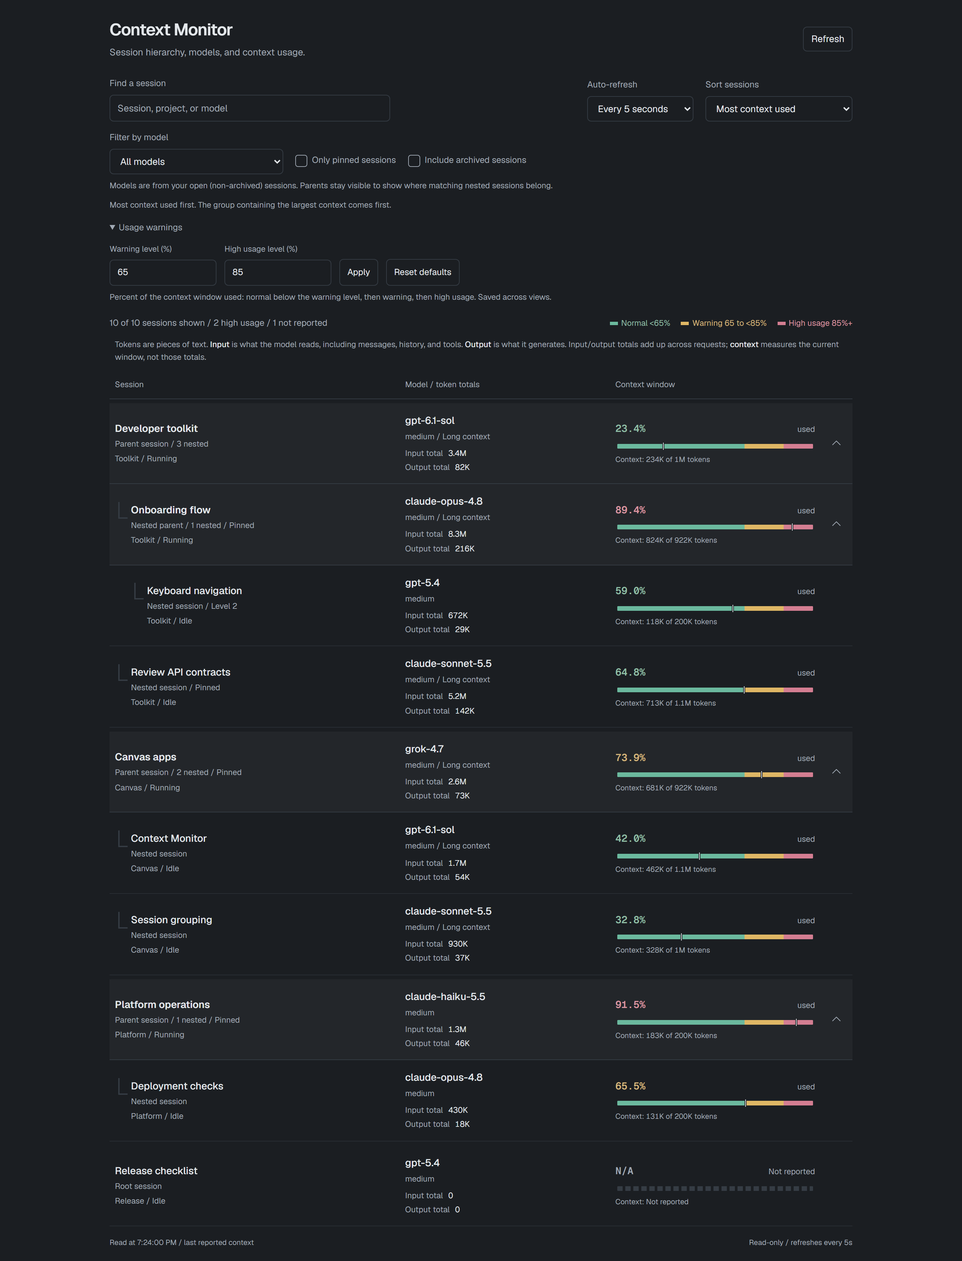
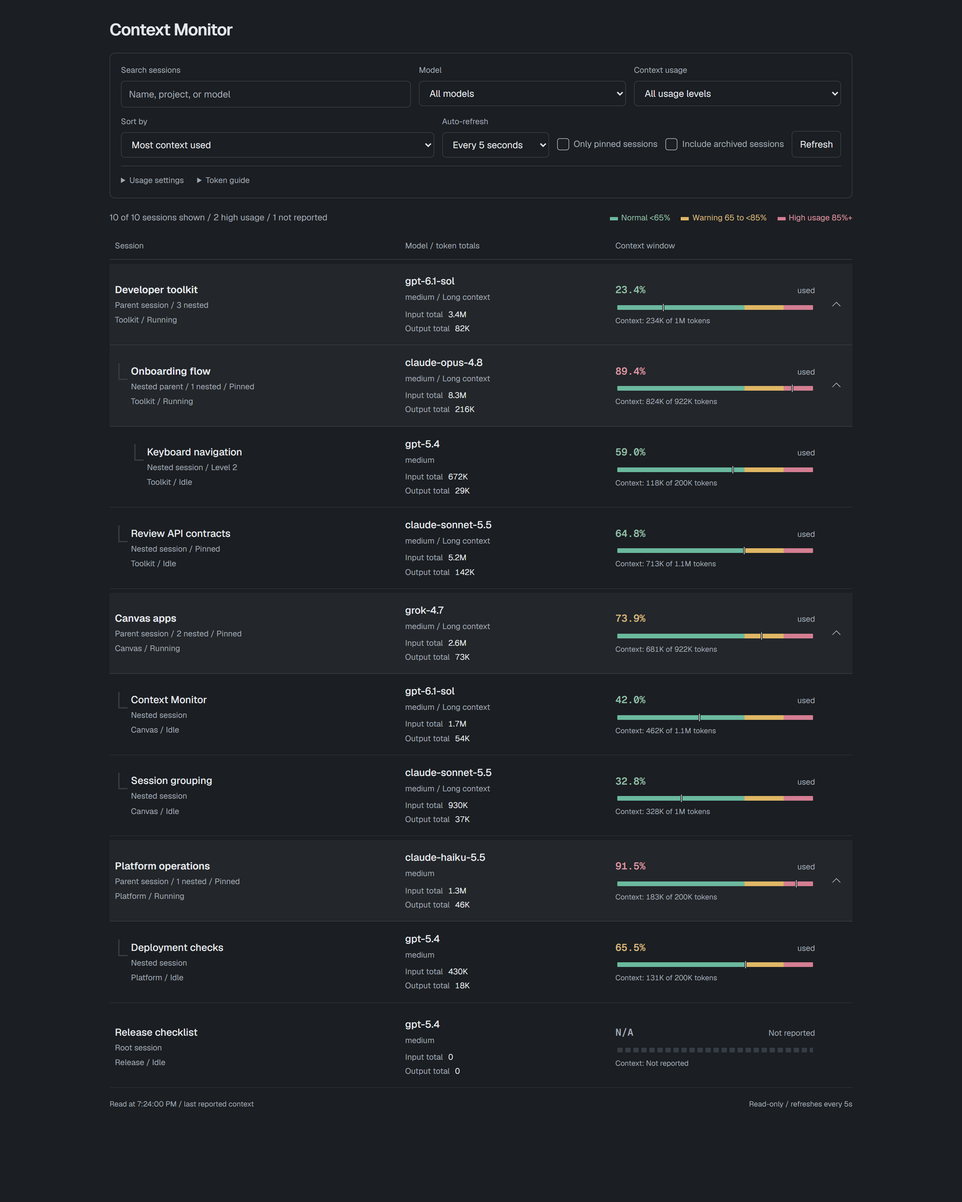
Add usage-level filtering and unify Context Monitor controls
Filter by normal, warning, high usage, or missing context using saved thresholds. Consolidate controls, keep guidance collapsible, and update dark synthetic previews and documentation.

Copilot-Session: 00babc8b-3aa2-4873-a4ea-72e82f7c85ed

diff --git a/apps/context-monitor/index.html b/apps/context-monitor/index.html
@@ -12,61 +12,79 @@
 </head>
 <body>
     <main>
-        <header>
-            <div><h1>Context Monitor</h1><p class="subtitle">Session hierarchy, models, and context usage.</p></div>
-            <button id="refresh" type="button">Refresh</button>
-        </header>
-        <div class="toolbar">
-            <div class="search"><label for="search">Find a session</label><input id="search" type="search" placeholder="Session, project, or model" autocomplete="off"></div>
-            <div class="refresh-choice">
-                <label for="auto-refresh">Auto-refresh</label>
-                <select id="auto-refresh">
-                    <option value="0">Off</option>
-                    <option value="5000" selected>Every 5 seconds</option>
-                    <option value="10000">Every 10 seconds</option>
-                    <option value="30000">Every 30 seconds</option>
-                    <option value="60000">Every minute</option>
-                    <option value="300000">Every 5 minutes</option>
-                </select>
+        <header><h1>Context Monitor</h1></header>
+        <section class="control-panel" aria-label="Session controls">
+            <div class="control-filters">
+                <div class="search"><label for="search">Search sessions</label><input id="search" type="search" placeholder="Name, project, or model" autocomplete="off"></div>
+                <div class="model-choice">
+                    <label for="model-filter">Model</label>
+                    <select id="model-filter" aria-describedby="filter-help" disabled><option value="">All models</option></select>
+                </div>
+                <div class="usage-choice">
+                    <label for="usage-filter">Context usage</label>
+                    <select id="usage-filter" aria-describedby="filter-help">
+                        <option value="">All usage levels</option>
+                        <option value="healthy">Normal (green)</option>
+                        <option value="watch">Warning (yellow)</option>
+                        <option value="high">High usage (red)</option>
+                        <option value="unknown">Not reported</option>
+                    </select>
+                </div>
             </div>
-            <div class="sort-choice">
-                <label for="sort-by">Sort sessions</label>
-                <select id="sort-by" aria-describedby="sort-help">
-                    <option value="recent" selected>Recent activity (default)</option>
-                    <option value="context-high">Most context used</option>
-                    <option value="context-low">Least context used</option>
-                    <option value="percent-high">Highest % used</option>
-                    <option value="percent-low">Lowest % used</option>
-                    <option value="capacity">Largest context window</option>
-                    <option value="name-az">Name: A to Z</option>
-                    <option value="name-za">Name: Z to A</option>
-                </select>
+            <div class="control-options">
+                <div class="sort-choice">
+                    <label for="sort-by">Sort by</label>
+                    <select id="sort-by" aria-describedby="sort-help">
+                        <option value="recent" selected>Recent activity (default)</option>
+                        <option value="context-high">Most context used</option>
+                        <option value="context-low">Least context used</option>
+                        <option value="percent-high">Highest % used</option>
+                        <option value="percent-low">Lowest % used</option>
+                        <option value="capacity">Largest context window</option>
+                        <option value="name-az">Name: A to Z</option>
+                        <option value="name-za">Name: Z to A</option>
+                    </select>
+                </div>
+                <div class="refresh-choice">
+                    <label for="auto-refresh">Auto-refresh</label>
+                    <select id="auto-refresh">
+                        <option value="0">Off</option>
+                        <option value="5000" selected>Every 5 seconds</option>
+                        <option value="10000">Every 10 seconds</option>
+                        <option value="30000">Every 30 seconds</option>
+                        <option value="60000">Every minute</option>
+                        <option value="300000">Every 5 minutes</option>
+                    </select>
+                </div>
+                <div class="scope-filters">
+                    <label class="check-filter"><input id="pinned-only" type="checkbox" disabled> Only pinned sessions</label>
+                    <label class="check-filter"><input id="archived" type="checkbox"> Include archived sessions</label>
+                </div>
+                <button id="refresh" type="button">Refresh</button>
             </div>
-        </div>
-        <div class="filters">
-            <div class="model-choice">
-                <label for="model-filter">Filter by model</label>
-                <select id="model-filter" aria-describedby="filter-help" disabled><option value="">All models</option></select>
+            <div class="control-settings">
+                <details class="threshold-settings">
+                    <summary>Usage settings</summary>
+                    <form id="threshold-form" novalidate>
+                        <fieldset id="threshold-controls" disabled>
+                            <div class="threshold-field"><label for="amber-threshold">Warning level (%)</label><input id="amber-threshold" type="number" min="0" max="100" step="1" value="65" required aria-describedby="threshold-help"></div>
+                            <div class="threshold-field"><label for="rose-threshold">High usage level (%)</label><input id="rose-threshold" type="number" min="0" max="100" step="1" value="85" required aria-describedby="threshold-help"></div>
+                            <button type="submit">Apply</button>
+                            <button id="reset-thresholds" type="button">Reset defaults</button>
+                        </fieldset>
+                        <p id="threshold-help" class="threshold-hint">Percent of context used. Warning must be below High usage.</p>
+                        <p id="threshold-status" class="threshold-status" role="status"></p>
+                    </form>
+                </details>
+                <details class="reading-help">
+                    <summary>Token guide</summary>
+                    <p class="token-guide" id="token-guide">Tokens are pieces of text. <strong>Input</strong> is what the model reads, including messages, history, and tools. <strong>Output</strong> is what it generates. Input/output totals add up across requests; <strong>context</strong> measures the current window, not those totals.</p>
+                </details>
             </div>
-            <label class="check-filter"><input id="pinned-only" type="checkbox" disabled> Only pinned sessions</label>
-            <label class="check-filter"><input id="archived" type="checkbox"> Include archived sessions</label>
-        </div>
-        <p id="filter-help" class="filter-help">Models are from your open (non-archived) sessions. Parents stay visible to show where matching nested sessions belong.</p>
-        <p id="filter-status" class="filter-help" role="status" hidden></p>
-        <p id="sort-help" class="sort-help">Recent activity first. Parents and nested sessions stay together.</p>
-        <details class="threshold-settings">
-            <summary>Usage warnings</summary>
-            <form id="threshold-form" novalidate>
-                <fieldset id="threshold-controls" disabled>
-                    <div class="threshold-field"><label for="amber-threshold">Warning level (%)</label><input id="amber-threshold" type="number" min="0" max="100" step="1" value="65" required aria-describedby="threshold-help"></div>
-                    <div class="threshold-field"><label for="rose-threshold">High usage level (%)</label><input id="rose-threshold" type="number" min="0" max="100" step="1" value="85" required aria-describedby="threshold-help"></div>
-                    <button type="submit">Apply</button>
-                    <button id="reset-thresholds" type="button">Reset defaults</button>
-                </fieldset>
-                <p id="threshold-help" class="threshold-hint">Percent of the context window used: normal below the warning level, then warning, then high usage. Saved across views.</p>
-                <p id="threshold-status" class="threshold-status" role="status"></p>
-            </form>
-        </details>
+            <p id="filter-help" class="sr-only">Models are from your open (non-archived) sessions. Usage levels follow your saved thresholds. Parents stay visible to show where matching nested sessions belong.</p>
+            <p id="filter-status" class="filter-notice" role="status" hidden></p>
+            <p id="sort-help" class="sr-only">Recent activity first. Parents and nested sessions stay together.</p>
+        </section>
         <div class="overview">
             <p id="count" role="status">Reading local sessions...</p>
             <div class="legend" aria-label="Context usage levels">
@@ -75,7 +93,6 @@
         </div>
         <p id="error" class="notice" role="alert" hidden></p>
         <p id="warnings" class="notice" hidden></p>
-        <p class="token-guide" id="token-guide">Tokens are pieces of text. <strong>Input</strong> is what the model reads, including messages, history, and tools. <strong>Output</strong> is what it generates. Input/output totals add up across requests; <strong>context</strong> measures the current window, not those totals.</p>
         <div class="column-head" aria-hidden="true"><span>Session</span><span>Model / token totals</span><span>Context window</span><span></span></div>
         <div id="sessions" aria-label="Session hierarchy" aria-busy="true">
             <div class="skeleton"></div><div class="skeleton"></div><div class="skeleton"></div>

diff --git a/apps/context-monitor/style.css b/apps/context-monitor/style.css
@@ -38,32 +38,36 @@ body { margin: 0; background: var(--surface); color: var(--ink); font: 14px/1.6 
 main { max-width: 1160px; margin: 0 auto; padding: 28px 24px 18px; }
 header { display: flex; align-items: center; justify-content: space-between; gap: 16px; }
 h1 { font-size: 25px; line-height: 1.3; font-weight: 600; letter-spacing: -.7px; margin: 0; }
-.subtitle { color: var(--muted); margin: 6px 0 0; }
 button, input, select { font: inherit; color: inherit; }
 button { border: 1px solid var(--edge); border-radius: 6px; background: var(--surface); padding: 6px 11px; cursor: pointer; white-space: nowrap; }
 button:hover { background: var(--hover); }
 button:active { transform: translateY(1px); }
 button:disabled { cursor: wait; opacity: .6; }
 button:focus-visible, input:focus-visible, select:focus-visible, summary:focus-visible { outline: 2px solid var(--color-focus-outline, #4078c0); outline-offset: 3px; }
-.toolbar { display: flex; align-items: end; gap: 18px; margin-top: 26px; }
-.search { flex: 1; min-width: 160px; max-width: 420px; }
-.search label, .refresh-choice label, .sort-choice label, .model-choice label { display: block; font-size: 13px; color: var(--muted); margin-bottom: 6px; }
+.control-panel { margin-top: 18px; padding: 16px; border: 1px solid var(--edge); border-radius: 8px; }
+.control-filters { display: grid; grid-template-columns: minmax(0, 1.4fr) minmax(0, 1fr) minmax(0, 1fr); gap: 12px; }
+.control-filters > div { min-width: 0; }
+.control-panel label:not(.check-filter) { display: block; font-size: 12px; color: var(--muted); margin-bottom: 6px; }
 input[type="search"], input[type="number"], select { width: 100%; padding: 8px 11px; border: 1px solid var(--edge); border-radius: 6px; background: var(--surface); }
-.refresh-choice { margin-left: auto; }
-.sort-choice { width: 220px; flex: 0 0 220px; }
-.sort-help { color: var(--muted); font-size: 12px; margin: 10px 0 0; }
+.control-options { display: flex; flex-wrap: wrap; align-items: end; gap: 10px 12px; margin-top: 12px; }
+.scope-filters { display: flex; flex-wrap: wrap; gap: 6px 12px; }
+.sort-choice { flex: 1 1 200px; min-width: 160px; }
+.refresh-choice { flex: 0 1 160px; min-width: 140px; }
+#refresh { min-height: 40px; margin-left: auto; }
+.control-settings { display: flex; flex-wrap: wrap; align-items: start; gap: 10px 20px; margin-top: 12px; padding-top: 12px; border-top: 1px solid var(--edge); }
+.control-settings details { min-width: 0; font-size: 12px; }
+.control-settings details[open] { flex-basis: 100%; }
+.control-settings summary { width: fit-content; cursor: pointer; color: var(--muted); }
+.control-settings summary:hover { color: var(--ink); }
+.sr-only { position: absolute; width: 1px; height: 1px; padding: 0; border: 0; overflow: hidden; clip-path: inset(50%); white-space: nowrap; }
+.filter-notice { color: var(--muted); font-size: 12px; margin: 10px 0 0; }
 input::placeholder { color: var(--muted); opacity: 1; }
-.filters { display: flex; flex-wrap: wrap; align-items: end; gap: 10px 18px; margin-top: 14px; }
-.model-choice { flex: 0 1 260px; min-width: 160px; }
-.filter-help { color: var(--muted); font-size: 12px; margin: 8px 0 0; }
 .check-filter { display: flex; gap: 7px; align-items: center; min-height: 40px; color: var(--muted); font-size: 13px; white-space: nowrap; cursor: pointer; }
 .check-filter input { appearance: none; display: grid; place-content: center; flex: 0 0 18px; width: 18px; height: 18px; margin: 0; border: 1.5px solid var(--muted); border-radius: 4px; background: transparent; cursor: pointer; }
 .check-filter input:checked { background: var(--ink); border-color: var(--ink); }
 .check-filter input:checked::before { content: ""; width: 5px; height: 9px; border: solid var(--surface); border-width: 0 2px 2px 0; transform: translateY(-1px) rotate(45deg); }
 .check-filter input:disabled { cursor: default; opacity: .55; }
 .model-choice select:disabled { opacity: .65; }
-.threshold-settings { margin-top: 14px; font-size: 13px; }
-.threshold-settings summary { width: fit-content; cursor: pointer; color: var(--muted); }
 .threshold-settings form { margin-top: 12px; }
 .threshold-settings fieldset { display: flex; flex-wrap: wrap; align-items: end; gap: 12px; border: 0; padding: 0; margin: 0; }
 .threshold-field { width: 160px; }
@@ -83,7 +87,7 @@ input::placeholder { color: var(--muted); opacity: 1; }
 .watch { color: var(--amber); }
 .high { color: var(--rose); }
 .unknown { color: var(--muted); }
-.token-guide { color: var(--muted); font-size: 12px; line-height: 1.6; margin: 12px 8px; }
+.token-guide { color: var(--muted); font-size: 12px; line-height: 1.6; margin: 10px 0 0; max-width: 85ch; }
 .token-guide strong { color: var(--ink); font-weight: 500; }
 .column-head, .session-row { display: grid; grid-template-columns: minmax(0, 1.4fr) minmax(0, 1fr) minmax(175px, 1fr) 32px; gap: 16px; align-items: center; }
 .column-head { border-bottom: 1px solid var(--edge); padding: 10px 8px; font-size: 12px; color: var(--muted); }
@@ -150,16 +154,14 @@ footer { display: flex; justify-content: space-between; gap: 10px; flex-wrap: wr
     .row-actions { grid-column: 2; grid-row: 1 / 4; align-self: end; }
     .token-totals { grid-template-columns: repeat(2, minmax(0, 1fr)); gap: 8px; }
     .details dl { grid-template-columns: repeat(2, minmax(0, 1fr)); }
-    .toolbar { flex-wrap: wrap; gap: 8px; }
-    .search { max-width: none; flex-basis: 100%; }
-    .sort-choice { width: 100%; flex-basis: 100%; }
-    .model-choice { flex-basis: 100%; }
+    .control-panel { padding: 12px; }
+    .control-filters { grid-template-columns: repeat(2, minmax(0, 1fr)); }
+    .search { grid-column: 1 / -1; }
+    .sort-choice { flex-basis: 100%; }
     .overview { margin-top: 10px; }
 }
-@media (min-width: 681px) and (max-width: 900px) {
-    .toolbar { flex-wrap: wrap; }
-    .search { max-width: none; flex-basis: 100%; }
-    .refresh-choice { margin-left: 0; }
+@media (max-width: 420px) {
+    .control-filters { grid-template-columns: minmax(0, 1fr); }
 }
 @media (max-width: 420px) {
     .legend { flex-wrap: wrap; gap: 6px 12px; }

diff --git a/apps/context-monitor/app.js b/apps/context-monitor/app.js
@@ -6,6 +6,7 @@ const search = document.getElementById("search");
 const archived = document.getElementById("archived");
 const pinnedOnly = document.getElementById("pinned-only");
 const modelFilter = document.getElementById("model-filter");
+const usageFilter = document.getElementById("usage-filter");
 const filterStatus = document.getElementById("filter-status");
 const sortBy = document.getElementById("sort-by");
 const sortHelp = document.getElementById("sort-help");
@@ -111,11 +112,11 @@ function element(tag, className, text) {
 }
 
 function filters() {
-    return { search: search.value, onlyPinned: pinnedOnly.checked, model: modelFilter.value };
+    return { search: search.value, onlyPinned: pinnedOnly.checked, model: modelFilter.value, usageLevel: usageFilter.value };
 }
 
 function isFiltering() {
-    return Boolean(search.value.trim() || pinnedOnly.checked || modelFilter.value);
+    return Boolean(search.value.trim() || pinnedOnly.checked || modelFilter.value || usageFilter.value);
 }
 
 function updateFilters() {
@@ -305,12 +306,12 @@ function render() {
     const prefix = isFiltering()
         ? `${matching.length} matching ${matching.length === 1 ? "session" : "sessions"}${parentsShown ? ` / ${parentsShown} ${parentsShown === 1 ? "parent" : "parents"} shown for context` : ""}`
         : `${visible.length} of ${active.length} sessions shown`;
-    count.textContent = `${prefix} / ${high} high usage${missing ? ` / ${missing} not reported` : ""}`;
+    count.textContent = `${prefix}${high ? ` / ${high} high usage` : ""}${missing ? ` / ${missing} not reported` : ""}`;
     const fragment = document.createDocumentFragment();
     if (!visible.length) {
         const empty = element("div", "empty");
         empty.append(element("strong", "", isFiltering() ? "No matching sessions" : "No sessions yet"),
-            element("span", "", isFiltering() ? "Change the model filter, turn off pinned-only, or clear your search." : "Start a session in the Copilot app, then refresh."));
+            element("span", "", isFiltering() ? "Change the filters or clear your search." : "Start a session in the Copilot app, then refresh."));
         fragment.append(empty);
     } else {
         const groups = new Map();
@@ -383,7 +384,7 @@ rows.addEventListener("click", (event) => {
 });
 search.addEventListener("input", render);
 archived.addEventListener("change", render);
-for (const control of [pinnedOnly, modelFilter]) {
+for (const control of [pinnedOnly, modelFilter, usageFilter]) {
     control.addEventListener("change", () => {
         filterStatus.hidden = true;
         render();

diff --git a/apps/context-monitor/README.md b/apps/context-monitor/README.md
@@ -4,7 +4,7 @@ View your GitHub Copilot app sessions, models, and context usage in one canvas. 
 
 <img src="screenshot.png" alt="Context Monitor showing parent and nested sessions, different models, and context usage" width="640">
 
-Synthetic sample sessions with Claude, GPT, and Grok models. The compact pinned-only preview shows the filter controls and retains an unpinned parent for hierarchy. [Open the full-resolution overview](screenshot-full.png) for all 10 sample sessions and warning controls. Model names illustrate the interface, not guaranteed availability for an account.
+Dark-theme preview with synthetic Claude, GPT, and Grok sessions. It shows the unified controls filtering for **Warning (yellow)** sessions, with a parent retained for hierarchy. [Open the full-resolution overview](screenshot-full.png) for all 10 sample sessions. Model names illustrate the interface, not guaranteed availability for an account.
 
 ## Use in the GitHub Copilot app
 
@@ -22,23 +22,29 @@ Review the installation approval. Personal/user scope makes the canvas available
 | Control | What it does |
 | --- | --- |
 | Parent arrow icon | Show or hide nested sessions. Hover or focus the icon for its description; top-level parents start collapsed. |
-| Find a session | Search by name, project, model, or session ID. Matching children keep their parents visible. |
+| Search sessions | Search by name, project, model, or session ID. Matching children keep their parents visible. |
 | Only pinned sessions | Show sessions you pinned in the GitHub Copilot app. This filters existing pins; it does not change them. |
-| Filter by model | Choose a model currently used by an open (non-archived) session, or All models. Options update with the app's metadata. |
-| Sort sessions | Choose recent activity (default), most/least context used, highest/lowest percentage used, largest context window, or name A-Z/Z-A. |
+| Model | Choose a model currently used by an open (non-archived) session, or All models. Options update with the app's metadata. |
+| Context usage | Show Normal (green), Warning (yellow), High usage (red), Not reported, or All usage levels. |
+| Sort by | Choose recent activity (default), most/least context used, highest/lowest percentage used, largest context window, or name A-Z/Z-A. |
 | Auto-refresh | Choose 5 seconds (default), 10 seconds, 30 seconds, 1 minute, 5 minutes, or Off. |
-| Usage warnings | Set the Warning and High usage percentages, then Apply. Reset defaults restores 65% / 85%. |
+| Usage settings | Set the Warning and High usage percentages, then Apply. Reset defaults restores 65% / 85%. |
+| Token guide | Open a plain-language explanation of input, output, and context counts. |
 | Session name | Show exact token counts, limits, and available breakdowns. |
 | Include archived sessions | Include archived sessions, which are hidden initially. An empty checkbox means they are excluded. |
 | Refresh | Read the latest saved app metadata immediately. |
 
 Sorting keeps parent groups together. Context-based sorts rank each group by its highest or lowest matching value and expand it so relevant children are visible. Missing values go last. Auto-refresh preserves your sort and expansion choices, pauses while the canvas is hidden, and never overlaps reads. Off leaves manual Refresh available.
 
-Pin, model, and search filters work together. A pinned child does not pin its parent, and pinning a parent does not automatically include its unpinned children. Necessary ancestors remain visible and are labeled **Parent of matching sessions**; the matching-session and high-usage counts exclude these context-only parents. Filtering reveals matching descendants; clear the filters to return to your expansion choices.
+All controls live in one panel: search, model and usage filters first, followed by sorting, refresh, and the checkboxes. Usage settings and the Token guide open only when needed.
+
+Pin, model, context-usage, and search filters work together. A pinned child does not pin its parent, and pinning a parent does not automatically include its unpinned children. Necessary ancestors remain visible and are labeled **Parent of matching sessions**; the matching-session and high-usage counts exclude these context-only parents. Filtering reveals matching descendants; clear the filters to return to your expansion choices.
 
 The model list comes from session metadata, not the account's available-model catalog. Archived-only models and sessions without a reported model do not create options. Including archived sessions can show archived matches for a selected model, but does not add archived-only models to the list. If a selected model is no longer used by an open session, the filter resets to All models with a visible notice.
 
-Usage warning levels must be whole percentages from 0 to 100, with Warning below High usage. They are saved across views. The colored strip shows these ranges; the vertical marker shows actual usage. A fully colored strip does not mean the context window is full. Unknown usage is **N/A**, with a neutral dashed strip and no marker.
+Usage warning levels must be whole percentages from 0 to 100, with Warning below High usage. They are saved across views. The context-usage filter follows those saved levels and updates immediately when you Apply new settings or Reset defaults. Unknown usage is separate from Normal and appears only under Not reported or All usage levels.
+
+The colored strip shows these ranges; the vertical marker shows actual usage. A fully colored strip does not mean the context window is full. Unknown usage is **N/A**, with a neutral dashed strip and no marker.
 
 **What the token numbers mean.** Tokens are pieces of text that the model processes. **Input total** counts the tokens the model has read across the session's requests, including messages, history, and tools. **Output total** counts the tokens it has generated. Both appear in each compact row, including short sessions, and are the app's reported totals.
 
@@ -52,7 +58,7 @@ Context values are the app's last reported snapshot, not lifetime token totals o
 
 This is a local app-database adapter, not a public cross-session SDK API. Missing or incompatible databases produce an explicit error. Missing or malformed pin metadata disables the pinned-only filter with a warning, rather than guessing which sessions are pinned. Remote sessions appear only if the local app has their metadata. Historical CLI aliases, including pinned IDs, are normalized to one app session; detached sessions remain roots, and missing or hidden archived parents promote their children to roots.
 
-Warning preferences are saved separately in `$COPILOT_HOME/extensions/context-monitor/artifacts/settings.sqlite`. Concurrent edits are version-checked and preserve your draft on conflict. Other views pick up changes on refresh. Search, pin/model filters, sorting, expansion, archive visibility, and refresh intervals are temporary per-view settings.
+Warning preferences are saved separately in `$COPILOT_HOME/extensions/context-monitor/artifacts/settings.sqlite`. Concurrent edits are version-checked and preserve your draft on conflict. Other views pick up changes on refresh. Search, pin/model/usage filters, sorting, expansion, archive visibility, and refresh intervals are temporary per-view settings.
 
 ## Develop
 
